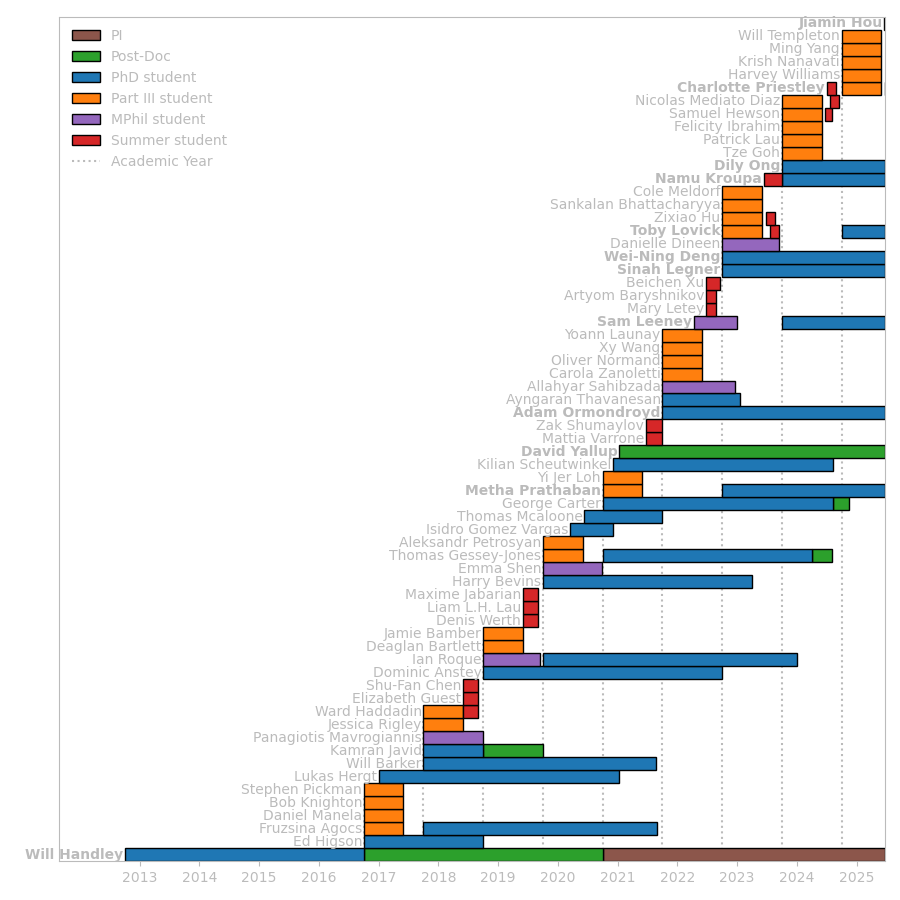
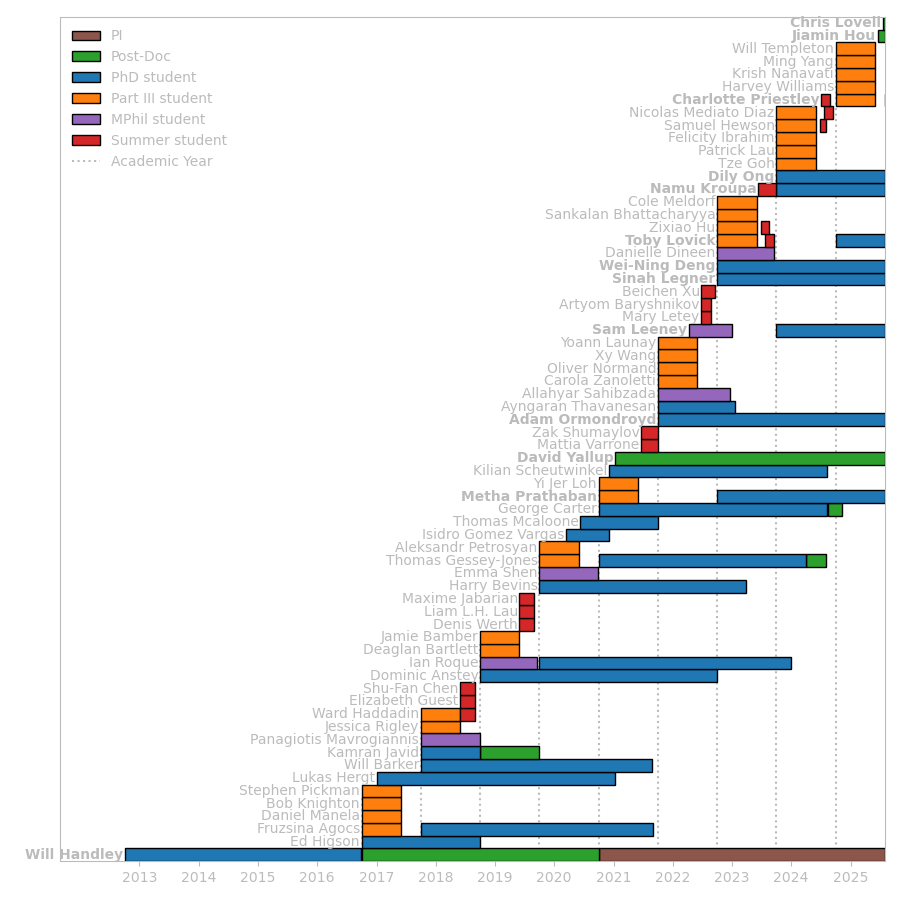
Updated group assets

diff --git a/assets/group/group.html b/assets/group/group.html
@@ -34,7 +34,7 @@
           <li>Post-Doc from Oct 2016 to Oct 2020<ul></ul></li>
           <li>PhD student from Oct 2012 to Sep 2016<ul><li>co-supervised with <a href="https://www.phy.cam.ac.uk/directory/lasenbya">Anthony Lasenby</a>, <a href="https://www.phy.cam.ac.uk/directory/hobsonm">Mike Hobson</a></li><li>Thesis: Kinetic initial conditions for inflation: theory, observation and methods</li></ul></li>
           <li>
-            <a href="https://arxiv.org/search/?query=handley%2C+w%3B+Handley%2CW&searchtype=author">Group research papers (161)</a>
+            <a href="https://arxiv.org/search/?query=handley%2C+w%3B+Handley%2CW&searchtype=author">Group research papers (162)</a>
           </li>
           <li>Links:</li>
           <ul>
@@ -50,6 +50,48 @@
 <div class="wrapper" style="margin-top:30pt">
   <h1>Post-Docs</h1>
   <div class="grid">
+    <div class="grid-item">
+      <img src="/assets/images/user.png" />
+    </div>
+    <div class="grid-item">
+      <p>
+        <font size="+2">Natalie Hogg</font>
+      </p>
+      <p>
+        <ul>
+          <li>Post-Doc from Oct 2025<ul></ul></li>
+          <li>
+            <a href="https://arxiv.org/search/?query=handley%2C+w%3B+Hogg%2CN&searchtype=author">Group research papers (1)</a>
+          </li>
+        </ul>
+      </p>
+    </div>
+    <div class="grid-item">
+      <img src="/assets/images/user.png" />
+    </div>
+    <div class="grid-item">
+      <p>
+        <font size="+2">Matt Grayling</font>
+      </p>
+      <p>
+        <ul>
+          <li>Post-Doc from Oct 2025<ul></ul></li>
+        </ul>
+      </p>
+    </div>
+    <div class="grid-item">
+      <img src="/assets/images/user.png" />
+    </div>
+    <div class="grid-item">
+      <p>
+        <font size="+2">Chris Lovell</font>
+      </p>
+      <p>
+        <ul>
+          <li>Post-Doc from Jul 2025<ul></ul></li>
+        </ul>
+      </p>
+    </div>
     <div class="grid-item">
       <img src="/assets/group/images/jiamin_hou.jpg" />
     </div>
@@ -201,6 +243,9 @@
       <p>
         <ul>
           <li>PhD student from Oct 2022<ul><li>co-supervised with <a href="https://wevbarker.com">Will Barker</a></li></ul></li>
+          <li>
+            <a href="https://arxiv.org/search/?query=handley%2C+w%3B+Legner%2CS&searchtype=author">Group research papers (1)</a>
+          </li>
         </ul>
       </p>
     </div>
